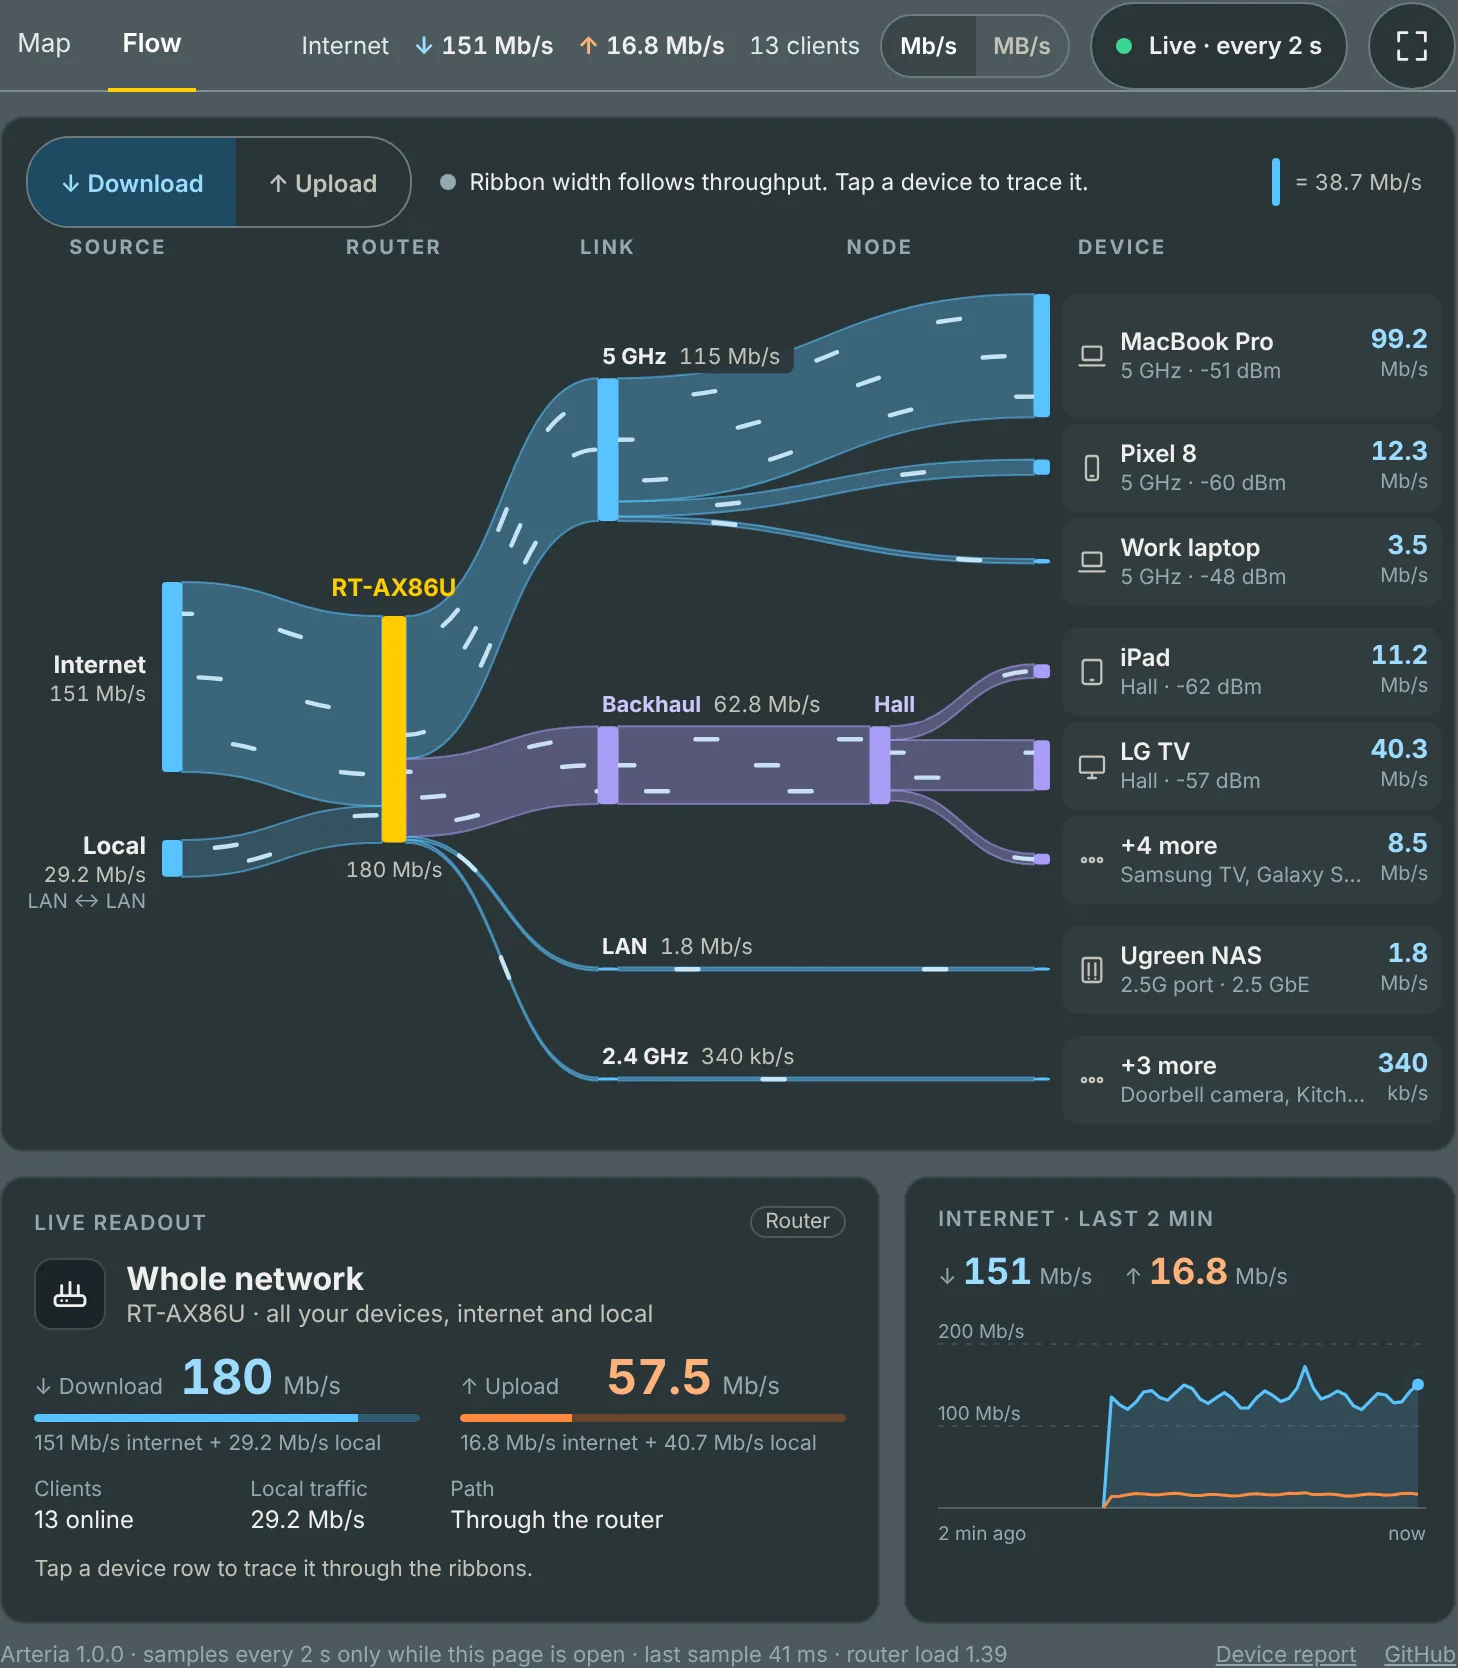
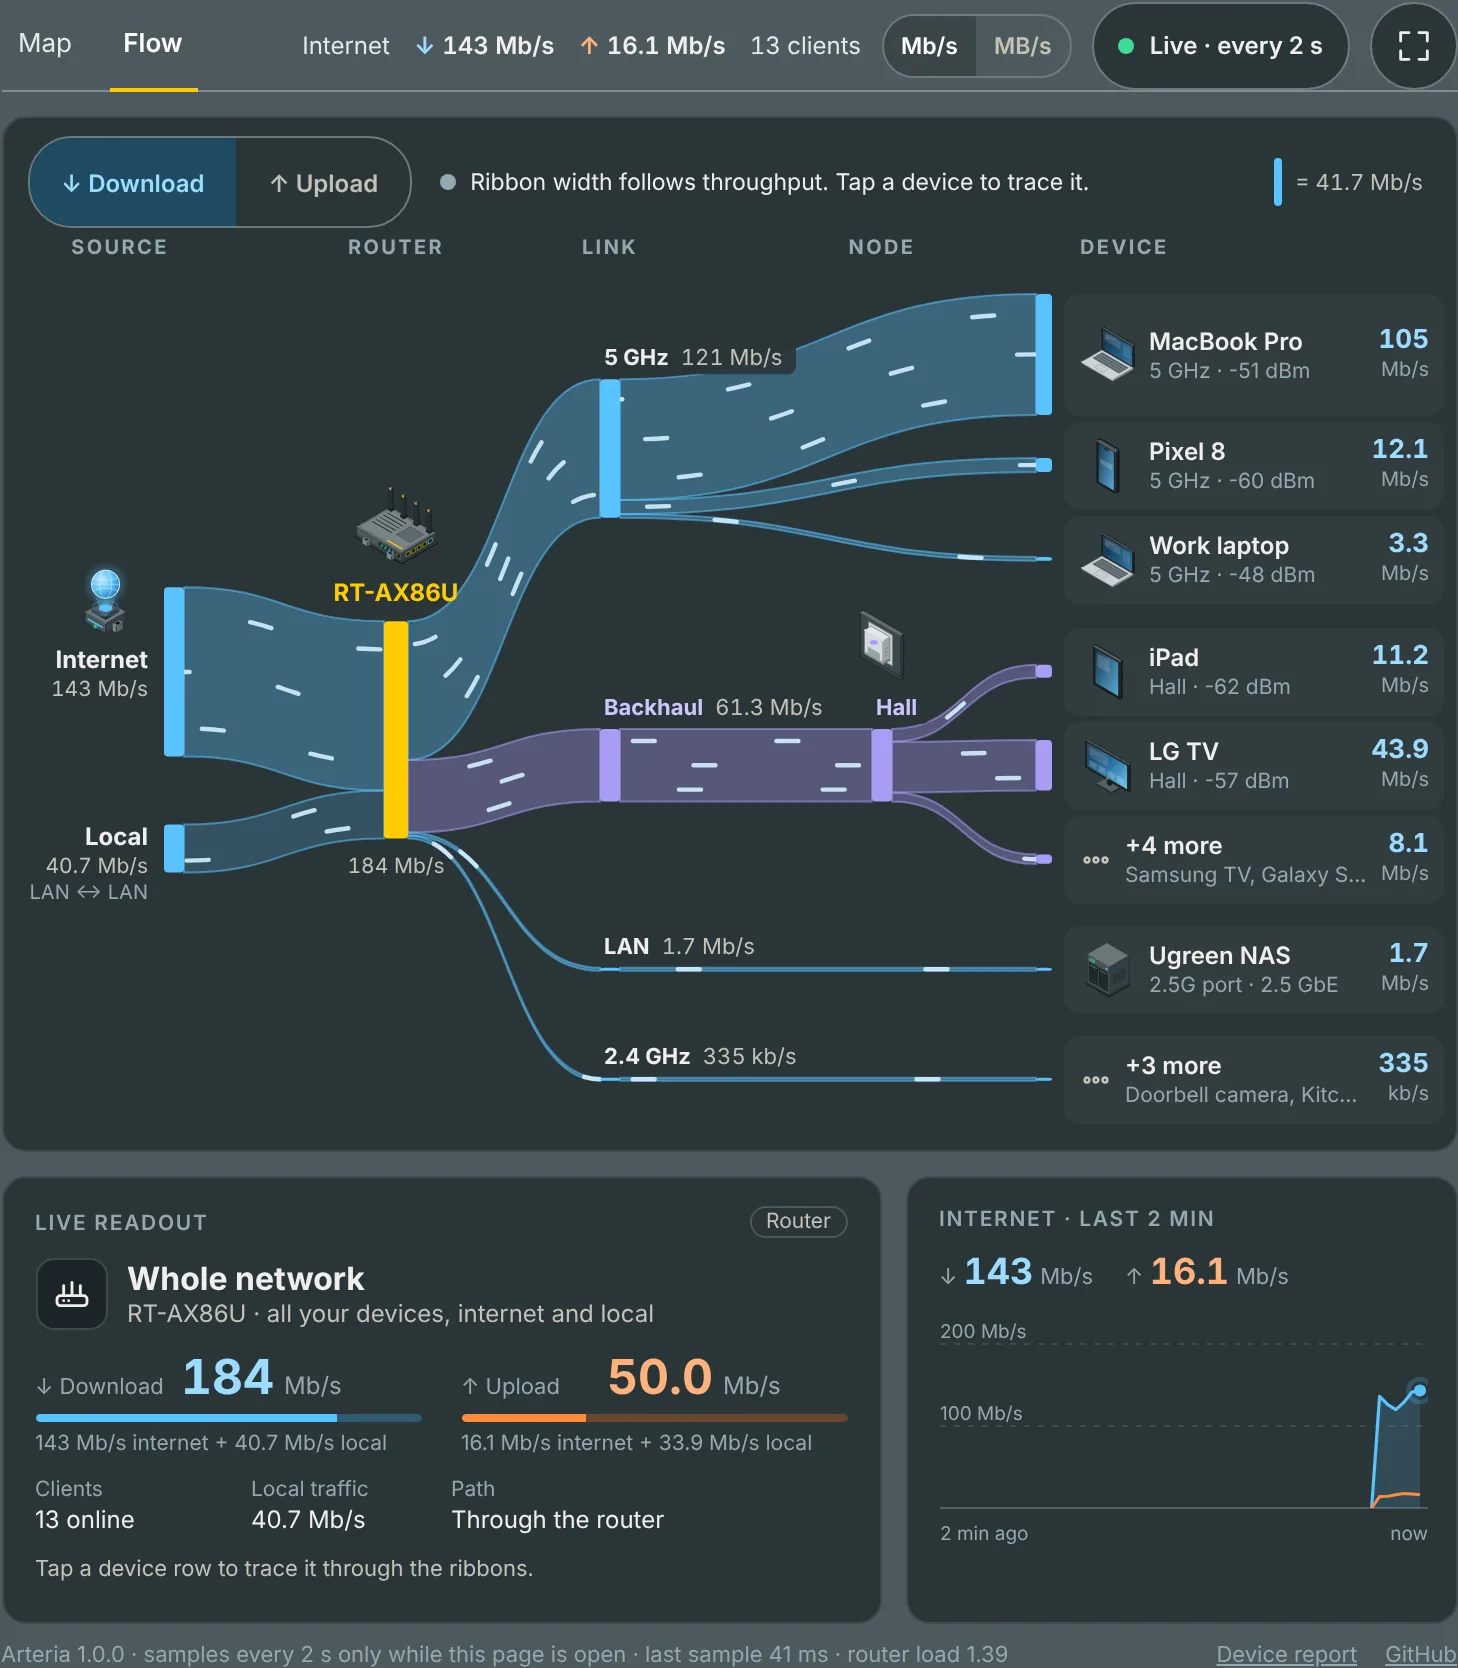
Flow: pictures, as on the Map
Each device row shows the device's drawing from the Map instead of a 16 px
outline icon, and the internet, the router and each AiMesh node have their
drawing above their bars, as UniFi's topology view has. A node's ring turns
red while it's offline.

- Drawings are made once per kind (or router or node model) and cropped to
  their outline, so any size works; larger in the expanded view.
- Phones, tablets and watches get pictures without the stand they have on
  the Map: at this size the stand was all you saw.
- The gradients move to one hidden SVG that is always rendered (#arDefs):
  Chrome draws nothing from a gradient inside a hidden SVG, and the Map is
  hidden while the Flow shows its drawings.
- The layout makes room for the pictures: a node group moves down when its
  picture wouldn't fit above its bar, and the router and the internet label
  stay far enough below the column titles.
- docs/flow.webp retaken; README and CHANGELOG.

Claude-Session: https://claude.ai/code/session_01VjX2uxd3MpU6CZq6psEPw5

diff --git a/.github/tests/page-units.js b/.github/tests/page-units.js
@@ -169,7 +169,7 @@ const html = [];
 [T.geomSmall(), T.geomBig(1184, 790, 0)].forEach(g => {
 	const keepG = T.G(); A.gotAny = true; T.useGeom(g);
 	try {
-		const L = T.mapLayout(hnet), m = T.buildMap(hnet, L), f = T.buildFlow(T.flowGroups(hnet));
+		const L = T.mapLayout(hnet), m = T.buildMap(hnet, L), f = T.buildFlow(T.flowGroups(hnet), hnet);
 		html.push(m.svg, m.labels, f.svg, f.rows);
 	} catch (e) { html.push('ERROR ' + e.message); }
 	T.useGeom(keepG);
@@ -187,7 +187,7 @@ let hn = AR.buildNet(smp({ ports: ['eth1', EVIL], links: [['eth0', 1, 1000], ['e
 	nodes: [{ mac: NODE, ip: '192.168.50.10', model: 'RP-AX56', alias: 'Hall', sta: '02:10:00:00:00:81 ' + EVIL, state: 'nokey', up: null, c: [] }, { mac: EVIL, model: 'x', state: 'ok', c: [] }, null] }));
 const ids = hn.devs.map(d => d.id).concat(hn.nodes.map(n => n.id)).sort().join(' ');
 let hm = '';
-try { A.gotAny = true; const L = T.mapLayout(hn), m = T.buildMap(hn, L), f = T.buildFlow(T.flowGroups(hn)); hm = m.svg + m.labels + f.svg + f.rows; } catch (e) { hm = 'ERROR ' + e.message; }
+try { A.gotAny = true; const L = T.mapLayout(hn), m = T.buildMap(hn, L), f = T.buildFlow(T.flowGroups(hn), hn); hm = m.svg + m.labels + f.svg + f.rows; } catch (e) { hm = 'ERROR ' + e.message; }
 ok(ids === '00:00:5E:00:53:44 node:' + NODE + ' port:eth1' && !/<img|ERROR/i.test(hm) && (hn.byId['00:00:5E:00:53:44'] || {}).rssi === -61, 'addresses and ports that aren\'t one are dropped (sample, node list, AiMesh client list)', ids + ' ' + (hm.match(/<img|ERROR.*/i) || ''));
 
 // ---- 9. one odd value never stops a sample: names of the wrong type, an empty network

diff --git a/README.md b/README.md
@@ -14,7 +14,7 @@ It adds an **Arteria** tab to the router's **Traffic Analyzer** menu (or to **Ne
 | View | What it shows |
 |---|---|
 | **Map** | An isometric drawing of your network. Cables are pipes, Wi-Fi links are arcs, and each moving packet is traffic: packets grow and bunch up as throughput rises, at the same calm speed. Blue flows toward the device (download), orange toward the internet (upload), violet is the AiMesh backhaul. Each device is drawn as what it is (a desktop PC, a Mac, a phone, a TV, a light bulb...), and each AiMesh node in its own shape (a plug-in extender, a tower, a cube...). Devices connected through a node stand in its zone. On a busy network the quietest devices are grouped into a *+N more* tray: tap it to list them, then tap any of them to trace it. |
-| **Flow** | A Sankey "river" from the internet (and traffic between your own devices) through the router, each band, port and node, to every device. Ribbon width follows throughput; switch between Download and Upload. Rows keep a fixed order, so nothing jumps around while you watch. |
+| **Flow** | A Sankey "river" from the internet (and traffic between your own devices) through the router, each band, port and node, to every device. Ribbon width follows throughput; switch between Download and Upload. Each device, the router, each node and the internet carry the same drawing as on the Map. Rows keep a fixed order, so nothing jumps around while you watch. |
 
 Tap any device to trace its path: everything else dims, and the readout shows its download and upload, its share of the total, its signal, link rate and the path its traffic takes (for example *RT-AX86U → Hall → LG TV*). Its **Details** button shows who the device is: IP and MAC address, host name, maker, system, Wi-Fi standard and channel width (or port and speed), how long it has been connected, IPv6, and whether its address is reserved or leased (see [Devices](#devices)). Below the views: the busiest devices right now (Map) and the internet throughput of the last two minutes (Flow). The **Mb/s | MB/s** switch at the top shows every rate in megabits (as internet plans and speed tests do) or megabytes per second (as file downloads do); link rates stay in Mb/s, as the hardware states them. Notices flag a weak or offline backhaul and nodes that can't be read.
 
@@ -25,7 +25,7 @@ The **expand** button (top right) opens a bigger view that fills the browser win
 <table>
 <tr>
 <td width="50%"><a href="docs/map.webp"><img src="docs/map.webp" alt="Map view: an isometric drawing of the internet, the router, an AiMesh node and their devices, with packets flowing along cables and Wi-Fi arcs"></a><br><b>Map</b>: every device, where it's connected and how much is flowing</td>
-<td width="50%"><a href="docs/flow.webp"><img src="docs/flow.webp" alt="Flow view: a Sankey diagram from the internet through the router, the 5 GHz band, the AiMesh backhaul and the node to each device"></a><br><b>Flow</b>: where the traffic goes, as a river</td>
+<td width="50%"><a href="docs/flow.webp"><img src="docs/flow.webp" alt="Flow view: a Sankey diagram from the internet through the router, the 5 GHz band, the AiMesh backhaul and the node to each device, each with a small drawing of the device"></a><br><b>Flow</b>: where the traffic goes, as a river</td>
 </tr>
 <tr>
 <td width="50%"><a href="docs/map-sel.webp"><img src="docs/map-sel.webp" alt="Map view with one TV selected: its path through the AiMesh node is highlighted and the readout shows its rates, signal and path"></a><br><b>Tracing a device</b>: tap it to follow its traffic through the node</td>

diff --git a/CHANGELOG.md b/CHANGELOG.md
@@ -4,6 +4,7 @@ What changed in each release of Arteria. The release workflow copies a version's
 
 ## Unreleased
 
+- **Flow: pictures, as on the Map.** Each device row shows the device's drawing instead of a small outline icon, and the internet, the router and each AiMesh node have theirs above their bars. A node's ring turns red while it's offline. Phones, tablets and watches get pictures of their own, without the stand they have on the Map.
 - **`nodes test` shows whether the page can read each node.** Besides key login, it runs one round of the script the page runs on each node, and reports how many devices it read and how long that took, or why it failed (with addresses and user names taken out). A node that is too slow for the page says so. `debug` no longer lists nodes as down while the page is closed, and shows each node's last SSH message.
 - **`nodekey` with SSH password login turned off** (*Allow Password Login: No*): it no longer tries a password the nodes won't take. The key goes into the router's own Authorized Keys, which AiMesh copies to the nodes at its next settings sync, and `nodekey` says how to start one: save a setting (the Wireless page works), wait a few minutes, then run `nodes test`. The same when a node turns down passwords on its own.
 
